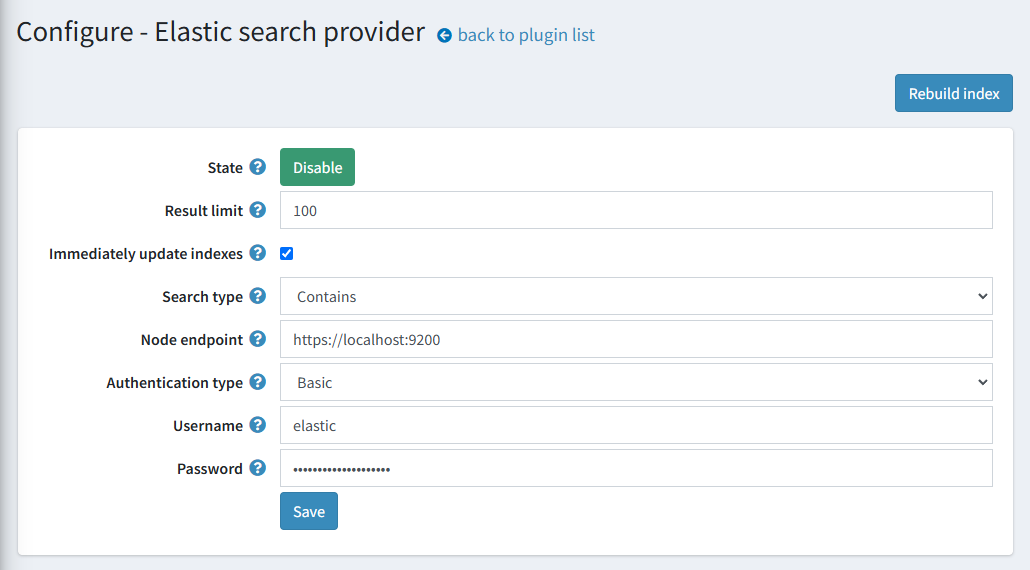
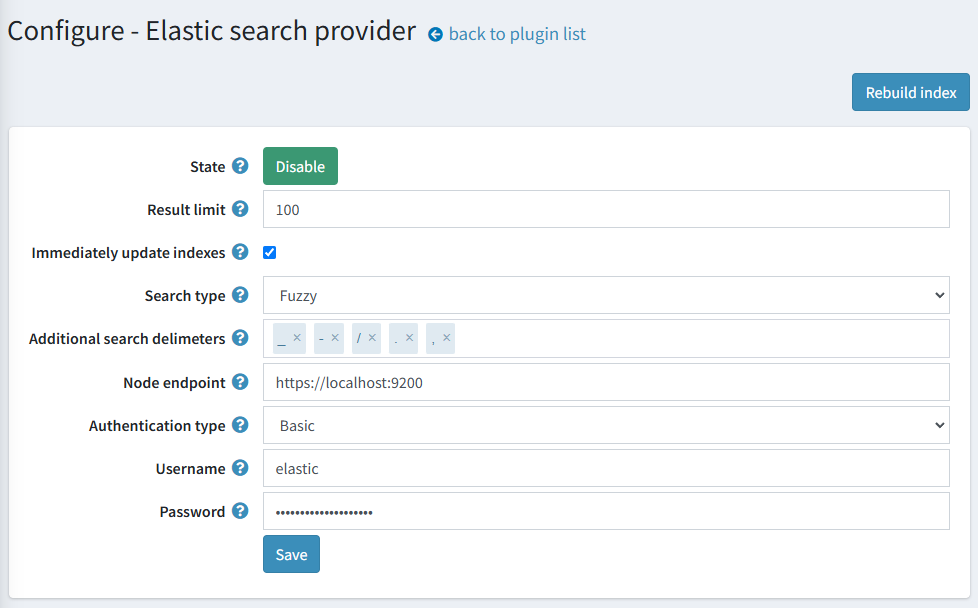
Updated full-text search articles

Changed region(s): [[0.0, 0.2088, 1.0, 1.0], [0.0, 0.0298, 0.6135, 0.0895], [0.8589, 0.1193, 1.0, 0.2088]]

diff --git a/en/running-your-store/catalog/full-text-search/elasticsearch-configure.md b/en/running-your-store/catalog/full-text-search/elasticsearch-configure.md
@@ -62,6 +62,7 @@ Click the **Configure** button beside the Elastic search provider option in the 
     > [!NOTE]
     > You may also manually click the "Rebuild index" button to start reindexing.
 1. Enter the **Result limit**, if necessary. The Result limit is the maximum number of result matches that will be retrieved from the Elasticsearch server for search queries.
+1. Enter additional delimiter characters to split a search query into terms. Please note that search queries are always splitted by space, in addition to the entered delimiters.
 1. Click the **Save** button
 
 > [!NOTE]

diff --git a/en/running-your-store/catalog/full-text-search/lucene-configure.md b/en/running-your-store/catalog/full-text-search/lucene-configure.md
@@ -54,6 +54,7 @@ Click the **Configure** button beside the Lucene search provider option in the l
     > [!NOTE]
     > You may also manually click the "Rebuild index" button to start reindexing.
 1. Enter the **Result limit**, if necessary. The Result limit is the maximum number of result matches that will be retrieved from the index for search queries.
+1. Enter additional delimiter characters to split a search query into terms. Please note that search queries are always splitted by space, in addition to the entered delimiters.
 1. Click the **Save** button
 
 > [!NOTE]
